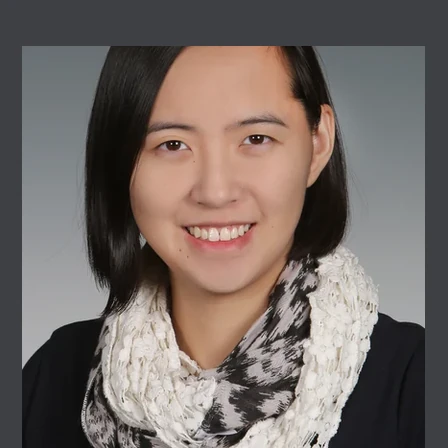
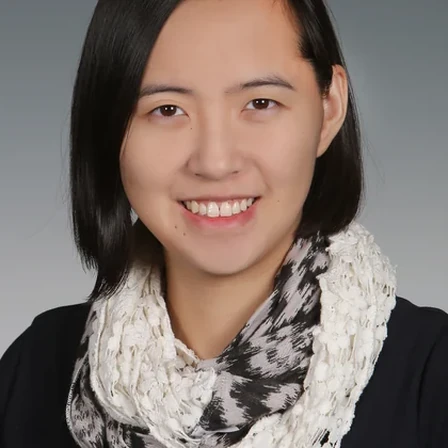
Crop committee headshots naturally

diff --git a/organizing.html b/organizing.html
@@ -130,7 +130,7 @@
         </div>
         <div class="committee">
           <div class="committee-card">
-            <div class="committee-avatar"><img src="assets/people/lei-bai-small.webp?v=20260626-headroom" alt="Lei Bai" loading="lazy" decoding="async"></div>
+            <div class="committee-avatar"><img src="assets/people/lei-bai-small.webp?v=20260626-crop" alt="Lei Bai" loading="lazy" decoding="async"></div>
             <div class="committee-copy"><span class="role">Workshop / Tutorial Co-Chair</span><a class="name" href="http://leibai.site/">Lei Bai</a><div class="affiliation">Shanghai Artificial Intelligence Laboratory</div></div>
           </div>
         </div>
@@ -143,7 +143,7 @@
         </div>
         <div class="committee">
           <div class="committee-card">
-            <div class="committee-avatar"><img src="assets/people/huanran-wang-small.webp?v=20260626-headroom" alt="Huanran Wang" loading="lazy" decoding="async"></div>
+            <div class="committee-avatar"><img src="assets/people/huanran-wang-small.webp?v=20260626-crop" alt="Huanran Wang" loading="lazy" decoding="async"></div>
             <div class="committee-copy"><span class="role">Publicity Co-Chair</span><div class="name">Huanran Wang</div><div class="affiliation">Beijing Academy of Artificial Intelligence (BAAI)</div></div>
           </div>
         </div>